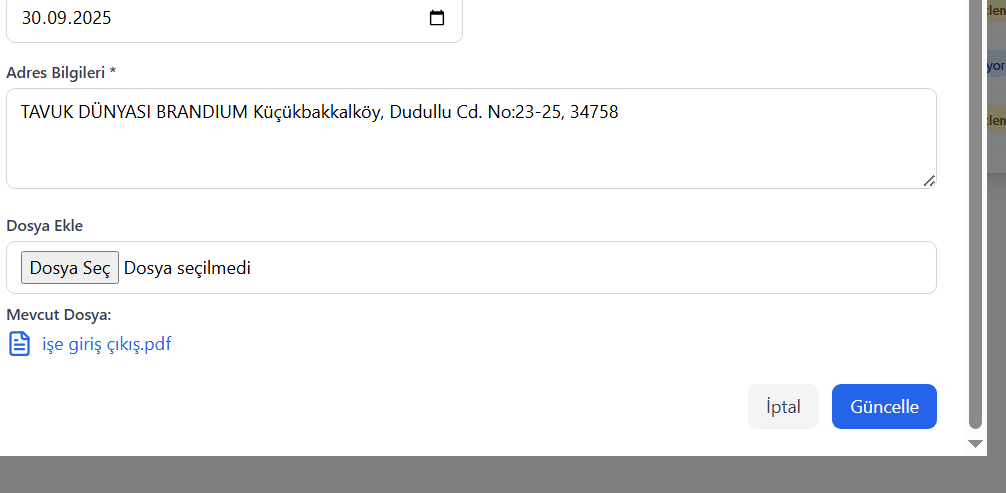
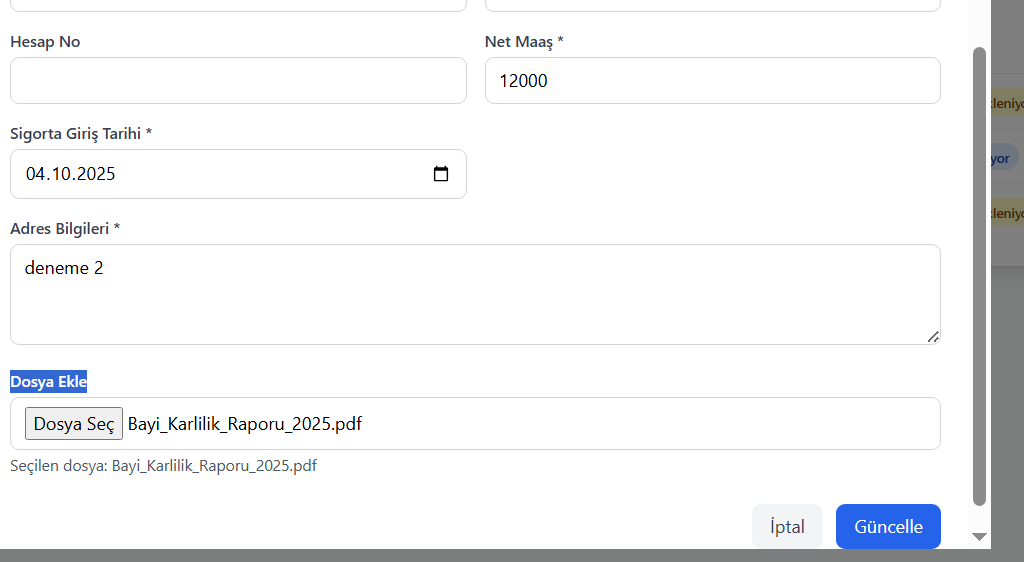
Feat: Çalışan Talep Yönetimi Geliştirme 2.1

diff --git a/CopyCat/pages/CalisanTalepPage.tsx b/CopyCat/pages/CalisanTalepPage.tsx
@@ -173,30 +173,53 @@ const CalisanTalepSistemi: React.FC = () => {
   const handleSubmit = async (e: React.FormEvent) => {
     e.preventDefault();
 
-    let talepData = { ...formData };
+    // If we are in edit mode and a new file is selected, use FormData
+    if (modalType === 'edit' && selectedFile) {
+      const formDataToSend = new FormData();
+      
+      // Append all form fields from the `formData` state
+      for (const key in formData) {
+        const value = formData[key as keyof typeof formData];
+        // Don't append the old base64 'Imaj' string or its name
+        if (key === 'Imaj' || key === 'Imaj_Adi') continue;
+        if (value !== null && value !== undefined) {
+          formDataToSend.append(key, String(value));
+        }
+      }
 
-    if (selectedFile) {
-      const fileAsBase64 = await new Promise<string>((resolve, reject) => {
-        const reader = new FileReader();
-        reader.onload = () => resolve((reader.result as string).split(',')[1]);
-        reader.onerror = (error) => reject(error);
-        reader.readAsDataURL(selectedFile);
-      });
-      talepData.Imaj = fileAsBase64;
-      talepData.Imaj_Adi = selectedFile.name;
-    }
-
-    if (modalType === 'add') {
-      const newTalep: CalisanTalep = {
-        ...talepData,
-        Calisan_Talep_ID: talepler.length + 1, // This might need to be handled by the backend
-        Kayit_Tarih: new Date().toISOString(),
-      } as CalisanTalep;
-      // This should be a call to a create function, e.g., createCalisanTalep(newTalep)
-      setTalepler([...talepler, newTalep]); 
-    } else {
+      // Append the new file
+      formDataToSend.append('Imaj', selectedFile, selectedFile.name);
+      
       if (selectedTalep) {
-        updateCalisanTalep(selectedTalep.Calisan_Talep_ID, talepData);
+        await updateCalisanTalep(selectedTalep.Calisan_Talep_ID, formDataToSend);
+      }
+    } else {
+      // Original logic for add mode or edit mode without a new file
+      let talepData = { ...formData };
+
+      if (selectedFile) { // This is for 'add' mode with a file
+        const fileAsBase64 = await new Promise<string>((resolve, reject) => {
+          const reader = new FileReader();
+          reader.onload = () => resolve((reader.result as string).split(',')[1]);
+          reader.onerror = (error) => reject(error);
+          reader.readAsDataURL(selectedFile);
+        });
+        talepData.Imaj = fileAsBase64;
+        talepData.Imaj_Adi = selectedFile.name;
+      }
+
+      if (modalType === 'add') {
+        const newTalep: CalisanTalep = {
+          ...talepData,
+          Calisan_Talep_ID: talepler.length + 1, // This might need to be handled by the backend
+          Kayit_Tarih: new Date().toISOString(),
+        } as CalisanTalep;
+        // This should be a call to a create function, e.g., createCalisanTalep(newTalep)
+        setTalepler([...talepler, newTalep]); 
+      } else { // 'edit' without new file
+        if (selectedTalep) {
+          await updateCalisanTalep(selectedTalep.Calisan_Talep_ID, talepData);
+        }
       }
     }
 

diff --git a/CopyCat/App.tsx b/CopyCat/App.tsx
@@ -1183,20 +1183,24 @@ const DataProvider: React.FC<{ children: ReactNode }> = ({ children }) => {
     return { success: false, message: "Ödeme referansı silinirken bir hata oluştu." };
   }, []);
 
-  const updateCalisanTalep = useCallback(async (talepId: number, talep: Partial<CalisanTalep>) => {
+  const updateCalisanTalep = useCallback(async (talepId: number, data: Partial<CalisanTalep> | FormData) => {
+    const isFormData = data instanceof FormData;
+    const body = isFormData ? data : JSON.stringify(data);
+
     const updatedTalep = await fetchData<CalisanTalep>(`${API_BASE_URL}/calisan-talepler/${talepId}`, {
       method: 'PUT',
-      headers: { 'Content-Type': 'application/json' },
-      body: JSON.stringify(talep),
+      body: body,
+      headers: isFormData ? {} : { 'Content-Type': 'application/json' },
     });
+
     if (updatedTalep) {
       setCalisanTalepList(prev =>
         prev.map(t => (t.Calisan_Talep_ID === talepId ? updatedTalep : t))
       );
       return { success: true, data: updatedTalep };
     }
-        return { success: false, message: "Çalışan talebi güncellenirken bir hata oluştu." };
-    }, [setCalisanTalepList]);
+    return { success: false, message: "Çalışan talebi güncellenirken bir hata oluştu." };
+  }, [setCalisanTalepList]);
   const addUstKategori = useCallback(async (data: UstKategoriFormData) => {
     const newUstKategori = await fetchData<UstKategori>(`${API_BASE_URL}/ust-kategoriler/`, {
       method: 'POST',

diff --git a/backend/api/v1/endpoints/calisan_talep.py b/backend/api/v1/endpoints/calisan_talep.py
@@ -1,7 +1,8 @@
-from fastapi import APIRouter, Depends, HTTPException
+from fastapi import APIRouter, Depends, HTTPException, Form, UploadFile, File
 from sqlalchemy.orm import Session
-from typing import List
+from typing import List, Optional
 import base64
+from datetime import date, datetime
 
 from db import crud, database
 from schemas import calisan_talep
@@ -35,8 +36,79 @@ def read_calisan_talep(talep_id: int, db: Session = Depends(database.get_db)):
     return db_talep
 
 @router.put("/calisan-talepler/{talep_id}", response_model=calisan_talep.CalisanTalep)
-def update_calisan_talep(talep_id: int, talep: calisan_talep.CalisanTalepUpdate, db: Session = Depends(database.get_db)):
-    db_talep = crud.update_calisan_talep(db, talep_id=talep_id, talep=talep)
+async def update_calisan_talep(
+    talep_id: int,
+    db: Session = Depends(database.get_db),
+    Talep: str = Form(...),
+    TC_No: str = Form(...),
+    Adi: str = Form(...),
+    Soyadi: str = Form(...),
+    Ilk_Soyadi: str = Form(...),
+    Hesap_No: Optional[str] = Form(None),
+    IBAN: Optional[str] = Form(None),
+    Ogrenim_Durumu: Optional[str] = Form(None),
+    Cinsiyet: str = Form(...),
+    Gorevi: Optional[str] = Form(None),
+    Anne_Adi: Optional[str] = Form(None),
+    Baba_Adi: Optional[str] = Form(None),
+    Dogum_Yeri: Optional[str] = Form(None),
+    Dogum_Tarihi: Optional[date] = Form(None),
+    Medeni_Hali: str = Form(...),
+    Cep_No: Optional[str] = Form(None),
+    Adres_Bilgileri: Optional[str] = Form(None),
+    Gelir_Vergisi_Matrahi: Optional[float] = Form(None),
+    SSK_Cikis_Nedeni: Optional[str] = Form(None),
+    Net_Maas: Optional[float] = Form(None),
+    Sigorta_Giris: Optional[date] = Form(None),
+    Sigorta_Cikis: Optional[date] = Form(None),
+    Is_Onay_Veren_Kullanici_ID: Optional[int] = Form(None),
+    Is_Onay_Tarih: Optional[datetime] = Form(None),
+    SSK_Onay_Veren_Kullanici_ID: Optional[int] = Form(None),
+    SSK_Onay_Tarih: Optional[datetime] = Form(None),
+    Sube_ID: int = Form(...),
+    Imaj: Optional[UploadFile] = File(None)
+):
+    update_data_dict = {
+        "Talep": Talep,
+        "TC_No": TC_No,
+        "Adi": Adi,
+        "Soyadi": Soyadi,
+        "Ilk_Soyadi": Ilk_Soyadi,
+        "Hesap_No": Hesap_No,
+        "IBAN": IBAN,
+        "Ogrenim_Durumu": Ogrenim_Durumu,
+        "Cinsiyet": Cinsiyet,
+        "Gorevi": Gorevi,
+        "Anne_Adi": Anne_Adi,
+        "Baba_Adi": Baba_Adi,
+        "Dogum_Yeri": Dogum_Yeri,
+        "Dogum_Tarihi": Dogum_Tarihi,
+        "Medeni_Hali": Medeni_Hali,
+        "Cep_No": Cep_No,
+        "Adres_Bilgileri": Adres_Bilgileri,
+        "Gelir_Vergisi_Matrahi": Gelir_Vergisi_Matrahi,
+        "SSK_Cikis_Nedeni": SSK_Cikis_Nedeni,
+        "Net_Maas": Net_Maas,
+        "Sigorta_Giris": Sigorta_Giris,
+        "Sigorta_Cikis": Sigorta_Cikis,
+        "Is_Onay_Veren_Kullanici_ID": Is_Onay_Veren_Kullanici_ID,
+        "Is_Onay_Tarih": Is_Onay_Tarih,
+        "SSK_Onay_Veren_Kullanici_ID": SSK_Onay_Veren_Kullanici_ID,
+        "SSK_Onay_Tarih": SSK_Onay_Tarih,
+        "Sube_ID": Sube_ID,
+    }
+
+    if Imaj:
+        update_data_dict["Imaj"] = await Imaj.read()
+        update_data_dict["Imaj_Adi"] = Imaj.filename
+
+    talep_update_model = calisan_talep.CalisanTalepUpdate(**update_data_dict)
+
+    db_talep = crud.update_calisan_talep(db, talep_id=talep_id, talep=talep_update_model)
     if db_talep is None:
         raise HTTPException(status_code=404, detail="Calisan Talep not found")
+
+    if db_talep.Imaj:
+        db_talep.Imaj = base64.b64encode(db_talep.Imaj).decode('utf-8')
+
     return db_talep

diff --git a/backend/db/crud.py b/backend/db/crud.py
@@ -769,7 +769,13 @@ def get_calisan_talepler(db: Session, skip: int = 0, limit: int = 100):
 def update_calisan_talep(db: Session, talep_id: int, talep: calisan_talep.CalisanTalepUpdate):
     db_talep = db.query(models.CalisanTalep).filter(models.CalisanTalep.Calisan_Talep_ID == talep_id).first()
     if db_talep:
-        for key, value in talep.dict(exclude_unset=True).items():
+        update_data = talep.dict(exclude_unset=True)
+        
+        if 'Imaj' in update_data and update_data['Imaj'] is not None:
+            db_talep.Imaj = update_data['Imaj']
+            del update_data['Imaj']
+
+        for key, value in update_data.items():
             setattr(db_talep, key, value)
         db.commit()
         db.refresh(db_talep)

diff --git a/backend/main.py b/backend/main.py
@@ -21,8 +21,7 @@ origins = [
     "http://localhost:5173",
     "http://localhost:8000",
     "https://sgunizi68.github.io",
-    "https://gumusbulut.onrender.com",
-    "*"
+    "https://gumusbulut.onrender.com"
 ]
 
 app.add_middleware(

diff --git a/backend/schemas/calisan_talep.py b/backend/schemas/calisan_talep.py
@@ -36,7 +36,7 @@ class CalisanTalepCreate(CalisanTalepBase):
     pass
 
 class CalisanTalepUpdate(CalisanTalepBase):
-    pass
+    Imaj: Optional[bytes] = None
 
 class CalisanTalep(CalisanTalepBase):
     Calisan_Talep_ID: int
